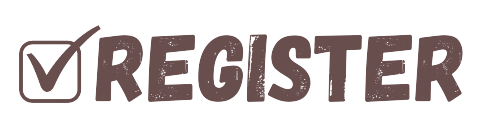
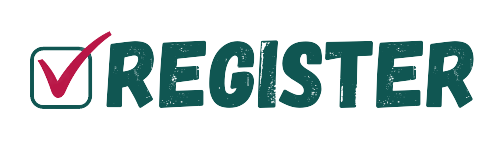
color scheme changes and assets changes

diff --git a/constants/Colors.ts b/constants/Colors.ts
@@ -1,19 +1,19 @@
-const tintColorLight = '#694E4E';
-const tintColorDark = '#694E4E';
+const tintColorLight = '#105652';
+const tintColorDark = '#105652';
 
 export default {
   light: {
     text: '#000',
     background: '#fff',
     tint: tintColorLight,
-    seperator: "#323232",
-    lightTint: "#F3C5C5"
+    seperator: "#B91646",
+    lightTint: "#FBF3E4"
   },
   dark: {
     text: '#000',
     background: '#fff',
     tint: tintColorDark,
-    seperator: "#323232",
-    lightTint: "#F3C5C5"
+    seperator: "#B91646",
+    lightTint: "#FBF3E4"
   },
 };
